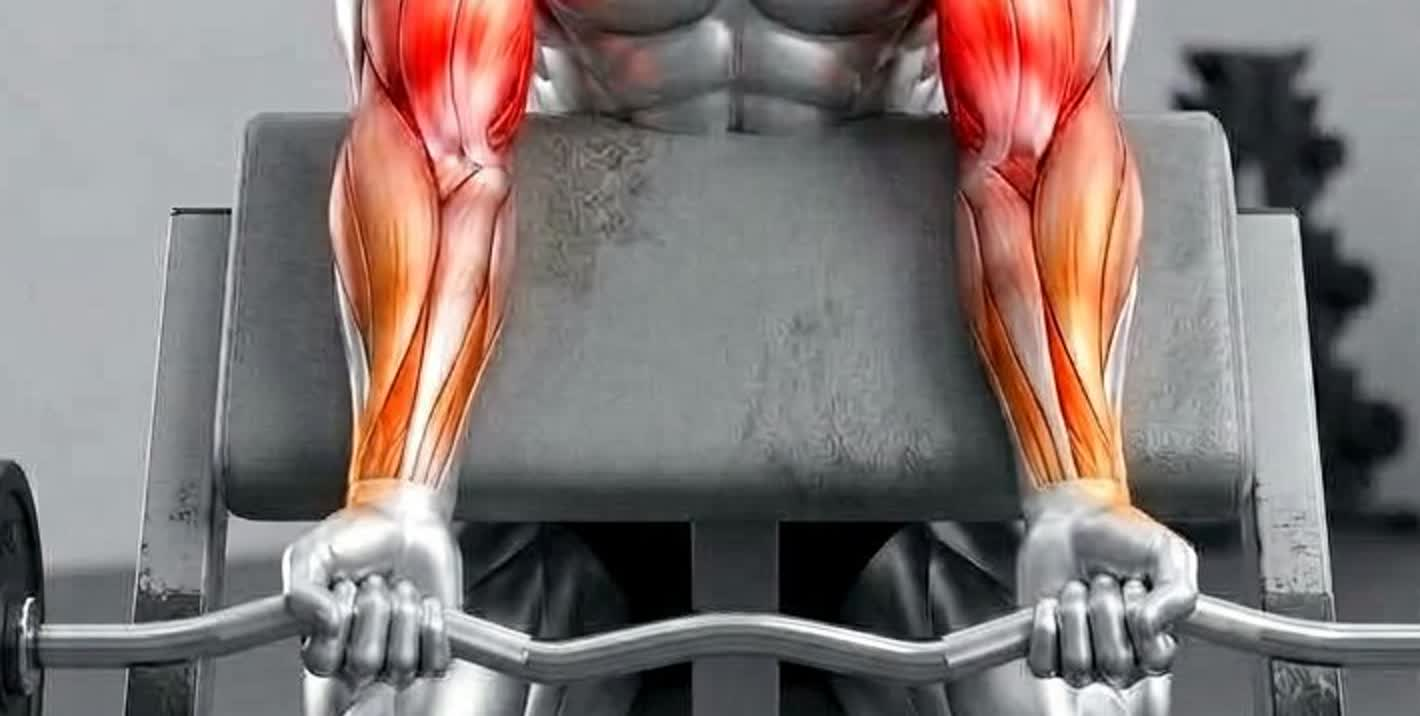
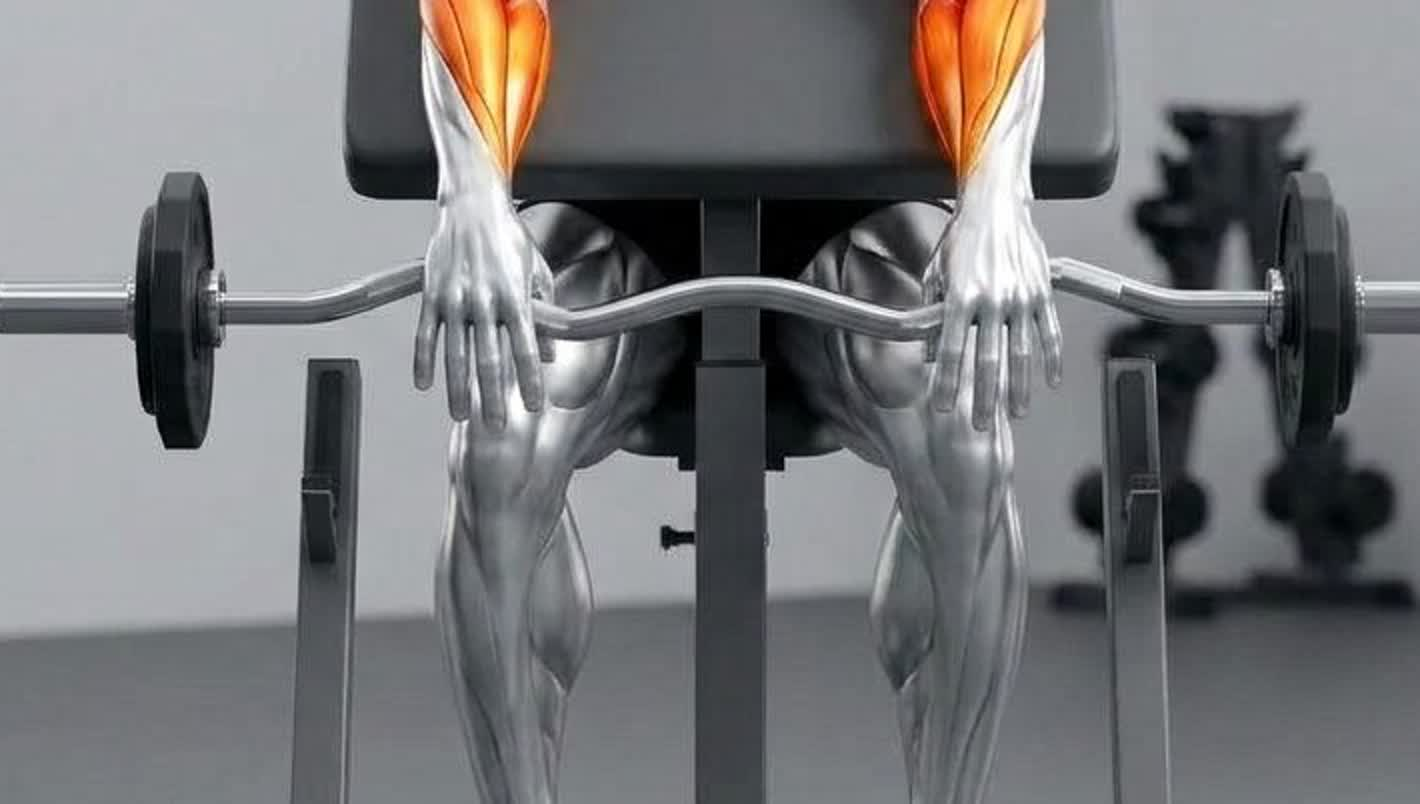
B2 ref photo v6: fence-drape framing, hands on top, fingers dangling

diff --git a/yanis-fitness-evolution/docs/videos-3d/06-DESCRIPTIONS-PRECISES.md b/yanis-fitness-evolution/docs/videos-3d/06-DESCRIPTIONS-PRECISES.md
@@ -108,7 +108,7 @@ pieds au sol, regard devant.
 Animate this same silver-chrome athletic man with matte black baseball cap, black shorts, white sneakers, standing and holding a chrome EZ curl bar with small black plates with an UNDERHAND supinated grip (palms facing up), arms down, elbows pinned against his sides. PHASE 1 (~2.5s): bend ONLY the elbows, curling the bar up in an arc toward the shoulders, elbows GLUED to the body and perfectly still, torso upright, no swinging or leaning. PHASE 2 (~2s): slow controlled lowering back to nearly straight arms (elbows never locked). LOCKED: elbows against the body, straight wrists, feet planted, eyes forward. Biceps glowing vivid RED with stable glow, no flicker. Front three-quarter medium shot, static camera, bright gym, end pose identical to start pose for a perfect loop. AVOID: moving elbows, swinging torso, bent wrists, fully locked elbows, extra limbs, deformed hands, flickering muscles, watermark, text.
 ```
 
-### B2 — Curl pupitre barre EZ pronation (REFAIT v5 le 22/10 : face, départ en bas)
+### B2 — Curl pupitre barre EZ pronation (REFAIT v6 le 22/10 : mains DESSUS, doigts pendants)
 
 **Photo :** `vague1-biceps-02-scott-ez-pronation.jpg` + zoom de contrôle
 `vague1-biceps-02-zoom-prise.jpg` (v1→v4 rejetées : supination au lieu de
@@ -129,7 +129,7 @@ pupitre, buste immobile.
 **Prompt arena.ai (EN, copiable) :**
 
 ```text
-Animate this same silver-chrome athletic man with matte black baseball cap, black shorts, white sneakers, seated at a preacher curl bench in FRONT VIEW, upper arms resting FLAT on the angled pad, arms EXTENDED down along the pad, chrome EZ curl bar with small black plates resting LOW in an OVERHAND PRONATED GRIP LIKE A ROOF OVER THE BAR: backs of the hands and knuckles toward the camera, fingers passing OVER the bar with fingertips pointing DOWN, palms facing the floor, wrists straight. PHASE 1 (~2.5s): bend ONLY the elbows, curling the bar up toward the chin, fingertips STAY pointing down and palms STAY facing the floor the whole time, upper arms GLUED to the pad, torso still. PHASE 2 (~2s): slow lowering back to near-full extension WITHOUT locking the elbows. LOCKED: pronated overhand grip AT ALL TIMES — fingertips pointing up or visible palms is WRONG — arms on the pad, no shoulder movement. Biceps glowing vivid RED and forearms orange, stable glow, no flicker. FRONT medium shot clearly showing the roof grip with downward fingertips, static camera, bright gym, end pose identical to start pose for a perfect loop. AVOID: underhand grip, fingertips pointing up, visible palms, supination, arms lifting off the pad, swinging torso, locked elbows, extra limbs, deformed hands, flickering muscles, watermark, text.
+Animate this same silver-chrome athletic man with matte black baseball cap, black shorts, white sneakers, seated at a preacher curl bench in FRONT VIEW, upper arms resting FLAT on the angled pad, arms EXTENDED down along the pad, chrome EZ curl bar with small black plates resting LOW in an OVERHAND PRONATED GRIP LIKE A ROOF OVER THE BAR: backs of the hands and knuckles toward the camera, fingers passing OVER the bar with fingertips pointing DOWN, palms facing the floor, wrists straight. PHASE 1 (~2.5s): close the grip over the bar and bend ONLY the elbows, curling the bar up toward the chin, fingertips STAY pointing down and palms STAY facing the floor the whole time, upper arms GLUED to the pad, torso still. PHASE 2 (~2s): slow lowering back to near-full extension WITHOUT locking the elbows. LOCKED: pronated overhand grip AT ALL TIMES — fingertips pointing up or visible palms is WRONG — arms on the pad, no shoulder movement. Biceps glowing vivid RED and forearms orange, stable glow, no flicker. FRONT medium shot clearly showing the roof grip with downward fingertips, static camera, bright gym, end pose identical to start pose for a perfect loop. AVOID: underhand grip, fingertips pointing up, visible palms, supination, arms lifting off the pad, swinging torso, locked elbows, extra limbs, deformed hands, flickering muscles, watermark, text.
 ```
 
 ### B3 — Curl marteau assis
